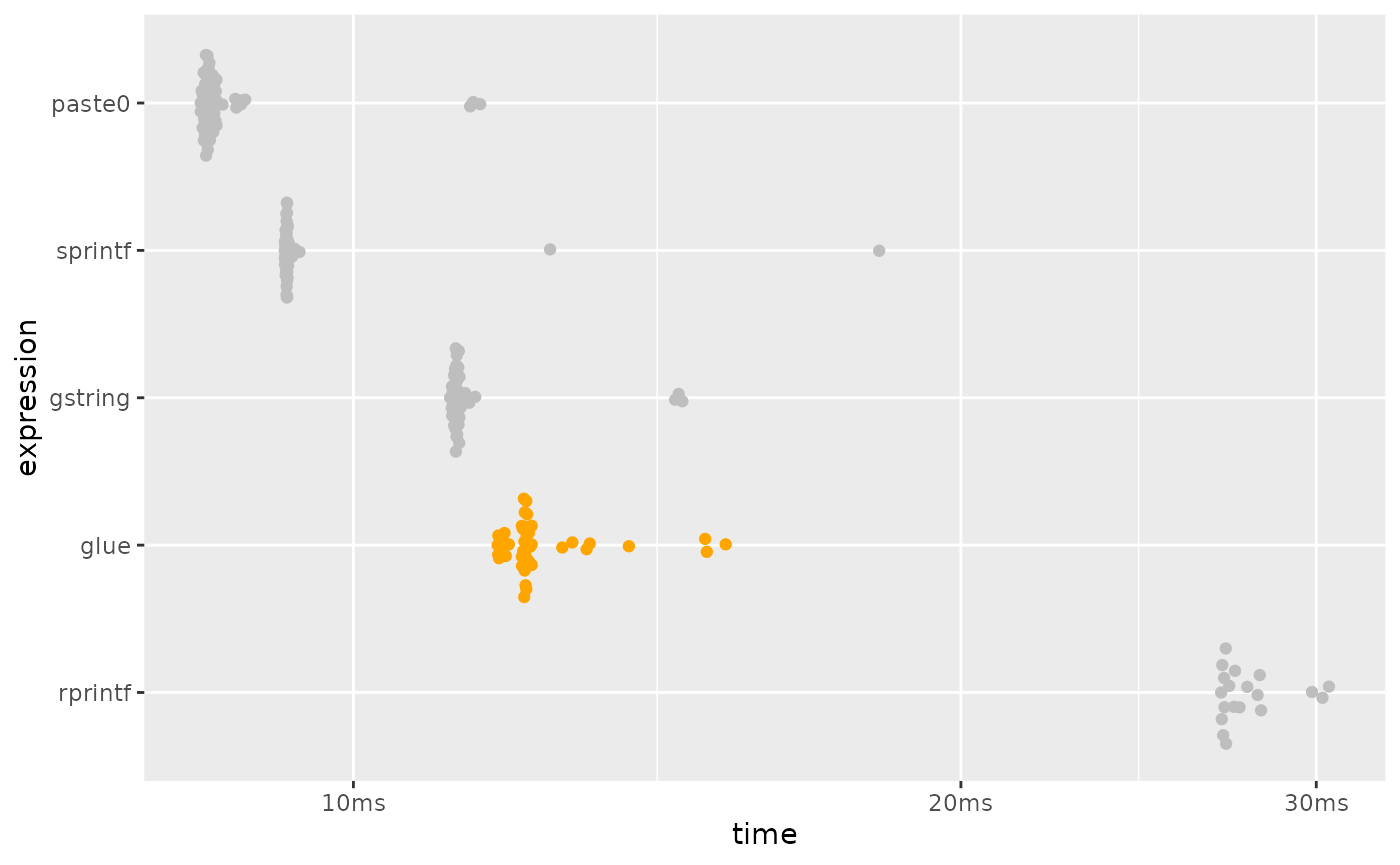
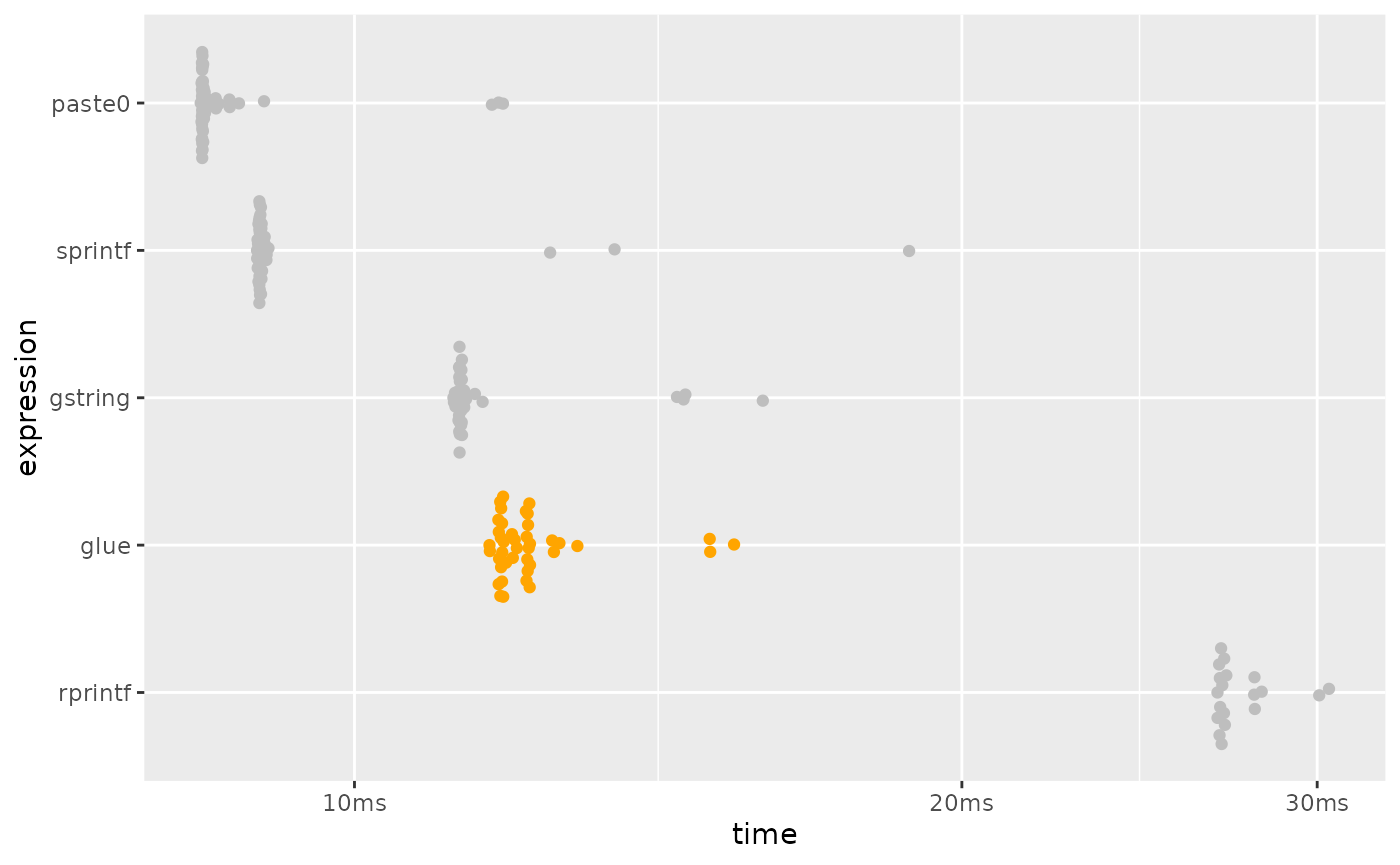
Deploying to gh-pages from @ tidyverse/glue@4b593c0628db0651cba9acf12bb28c55b87e89a0 🚀

diff --git a/dev/articles/speed.html b/dev/articles/speed.html
@@ -166,11 +166,11 @@ this benchmark, but is now formally marked as “superseded”, in favor of
 <span><span class="co">#&gt; <span style="color: #949494;"># A tibble: 5 × 6</span></span></span>
 <span><span class="co">#&gt;   expression      min   median `itr/sec` mem_alloc `gc/sec`</span></span>
 <span><span class="co">#&gt;   <span style="color: #949494; font-style: italic;">&lt;bch:expr&gt;</span> <span style="color: #949494; font-style: italic;">&lt;bch:tm&gt;</span> <span style="color: #949494; font-style: italic;">&lt;bch:tm&gt;</span>     <span style="color: #949494; font-style: italic;">&lt;dbl&gt;</span> <span style="color: #949494; font-style: italic;">&lt;bch:byt&gt;</span>    <span style="color: #949494; font-style: italic;">&lt;dbl&gt;</span></span></span>
-<span><span class="co">#&gt; <span style="color: #BCBCBC;">1</span> sprintf       751ns 782.08ns  1<span style="text-decoration: underline;">191</span>737.        0B      0  </span></span>
-<span><span class="co">#&gt; <span style="color: #BCBCBC;">2</span> paste0       1.51µs   1.64µs   <span style="text-decoration: underline;">587</span>060.        0B      0  </span></span>
-<span><span class="co">#&gt; <span style="color: #BCBCBC;">3</span> glue       100.64µs 106.18µs     <span style="text-decoration: underline;">9</span>247.  140.53KB     31.8</span></span>
-<span><span class="co">#&gt; <span style="color: #BCBCBC;">4</span> gstring    222.12µs 229.75µs     <span style="text-decoration: underline;">4</span>275.    2.45MB     21.2</span></span>
-<span><span class="co">#&gt; <span style="color: #BCBCBC;">5</span> rprintf    275.07µs 281.79µs     <span style="text-decoration: underline;">3</span>499.   78.14KB     12.4</span></span>
+<span><span class="co">#&gt; <span style="color: #BCBCBC;">1</span> sprintf       751ns 782.08ns  1<span style="text-decoration: underline;">186</span>654.        0B      0  </span></span>
+<span><span class="co">#&gt; <span style="color: #BCBCBC;">2</span> paste0       1.52µs   1.65µs   <span style="text-decoration: underline;">576</span>259.        0B     57.6</span></span>
+<span><span class="co">#&gt; <span style="color: #BCBCBC;">3</span> glue       100.97µs  106.4µs     <span style="text-decoration: underline;">9</span>159.  140.53KB     31.7</span></span>
+<span><span class="co">#&gt; <span style="color: #BCBCBC;">4</span> gstring    222.24µs  231.7µs     <span style="text-decoration: underline;">4</span>251.    2.45MB     19.0</span></span>
+<span><span class="co">#&gt; <span style="color: #BCBCBC;">5</span> rprintf    276.19µs 283.95µs     <span style="text-decoration: underline;">3</span>467.   78.14KB     10.3</span></span>
 <span></span>
 <span><span class="co"># plotting function defined in a hidden chunk</span></span>
 <span><span class="fu">plot_comparison</span><span class="op">(</span><span class="va">simple</span><span class="op">)</span></span></code></pre></div>
@@ -213,11 +213,11 @@ performance is much closer to that of <code><a href="https://rdrr.io/r/base/past
 <span><span class="co">#&gt; <span style="color: #949494;"># A tibble: 5 × 6</span></span></span>
 <span><span class="co">#&gt;   expression      min   median `itr/sec` mem_alloc `gc/sec`</span></span>
 <span><span class="co">#&gt;   <span style="color: #949494; font-style: italic;">&lt;bch:expr&gt;</span> <span style="color: #949494; font-style: italic;">&lt;bch:tm&gt;</span> <span style="color: #949494; font-style: italic;">&lt;bch:tm&gt;</span>     <span style="color: #949494; font-style: italic;">&lt;dbl&gt;</span> <span style="color: #949494; font-style: italic;">&lt;bch:byt&gt;</span>    <span style="color: #949494; font-style: italic;">&lt;dbl&gt;</span></span></span>
-<span><span class="co">#&gt; <span style="color: #BCBCBC;">1</span> paste0        8.4ms   8.48ms     118.    781.3KB     6.41</span></span>
-<span><span class="co">#&gt; <span style="color: #BCBCBC;">2</span> sprintf      9.25ms   9.27ms     108.    781.3KB     4.15</span></span>
-<span><span class="co">#&gt; <span style="color: #BCBCBC;">3</span> gstring     11.17ms  11.25ms      88.8    1.53MB     6.50</span></span>
-<span><span class="co">#&gt; <span style="color: #BCBCBC;">4</span> glue        11.79ms  12.16ms      81.8    2.29MB     6.46</span></span>
-<span><span class="co">#&gt; <span style="color: #BCBCBC;">5</span> rprintf     26.91ms  27.16ms      36.4    3.05MB     4.28</span></span>
+<span><span class="co">#&gt; <span style="color: #BCBCBC;">1</span> paste0       8.39ms   8.41ms     118.    781.3KB     6.45</span></span>
+<span><span class="co">#&gt; <span style="color: #BCBCBC;">2</span> sprintf      8.95ms   8.98ms     110.    781.3KB     4.24</span></span>
+<span><span class="co">#&gt; <span style="color: #BCBCBC;">3</span> gstring      11.2ms  11.28ms      87.7    1.53MB     6.42</span></span>
+<span><span class="co">#&gt; <span style="color: #BCBCBC;">4</span> glue        11.67ms  11.97ms      83.1    2.29MB     6.56</span></span>
+<span><span class="co">#&gt; <span style="color: #BCBCBC;">5</span> rprintf     26.77ms  26.92ms      36.8    3.05MB     4.33</span></span>
 <span></span>
 <span><span class="co"># plotting function defined in a hidden chunk</span></span>
 <span><span class="fu">plot_comparison</span><span class="op">(</span><span class="va">vectorized</span><span class="op">)</span></span></code></pre></div>

diff --git a/dev/reference/glue.html b/dev/reference/glue.html
@@ -167,9 +167,12 @@ syntactic elements), when parsing the expression string. Setting <code>.literal 
 
 
 <dt>.transformer</dt>
-<dd><p>[<code>function]</code><br> A function taking three parameters <code>code</code>, <code>envir</code> and
-<code>data</code> used to transform the output of each block before, during, or after
-evaluation. For example transformers see <code><a href="../articles/transformers.html">vignette("transformers")</a></code>.</p></dd>
+<dd><p>[<code>function]</code><br> A function taking two arguments, <code>text</code>
+and <code>envir</code>, where <code>text</code> is the unparsed string inside the glue block and
+<code>envir</code> is the execution environment. A <code>.transformer</code> lets you modify a
+glue block before, during, or after evaluation, allowing you to create your
+own custom <code>glue()</code>-like functions. See <code><a href="../articles/transformers.html">vignette("transformers")</a></code> for
+examples.</p></dd>
 
 
 <dt>.trim</dt>

diff --git a/dev/reference/identity_transformer.html b/dev/reference/identity_transformer.html
@@ -74,7 +74,7 @@ transformer.</p>
 
     <div class="section level2">
     <h2 id="ref-usage">Usage<a class="anchor" aria-label="anchor" href="#ref-usage"></a></h2>
-    <div class="sourceCode"><pre class="sourceCode r"><code><span><span class="fu">identity_transformer</span><span class="op">(</span><span class="va">text</span>, <span class="va">envir</span><span class="op">)</span></span></code></pre></div>
+    <div class="sourceCode"><pre class="sourceCode r"><code><span><span class="fu">identity_transformer</span><span class="op">(</span><span class="va">text</span>, envir <span class="op">=</span> <span class="fu"><a href="https://rdrr.io/r/base/sys.parent.html" class="external-link">parent.frame</a></span><span class="op">(</span><span class="op">)</span><span class="op">)</span></span></code></pre></div>
     </div>
 
     <div class="section level2">
